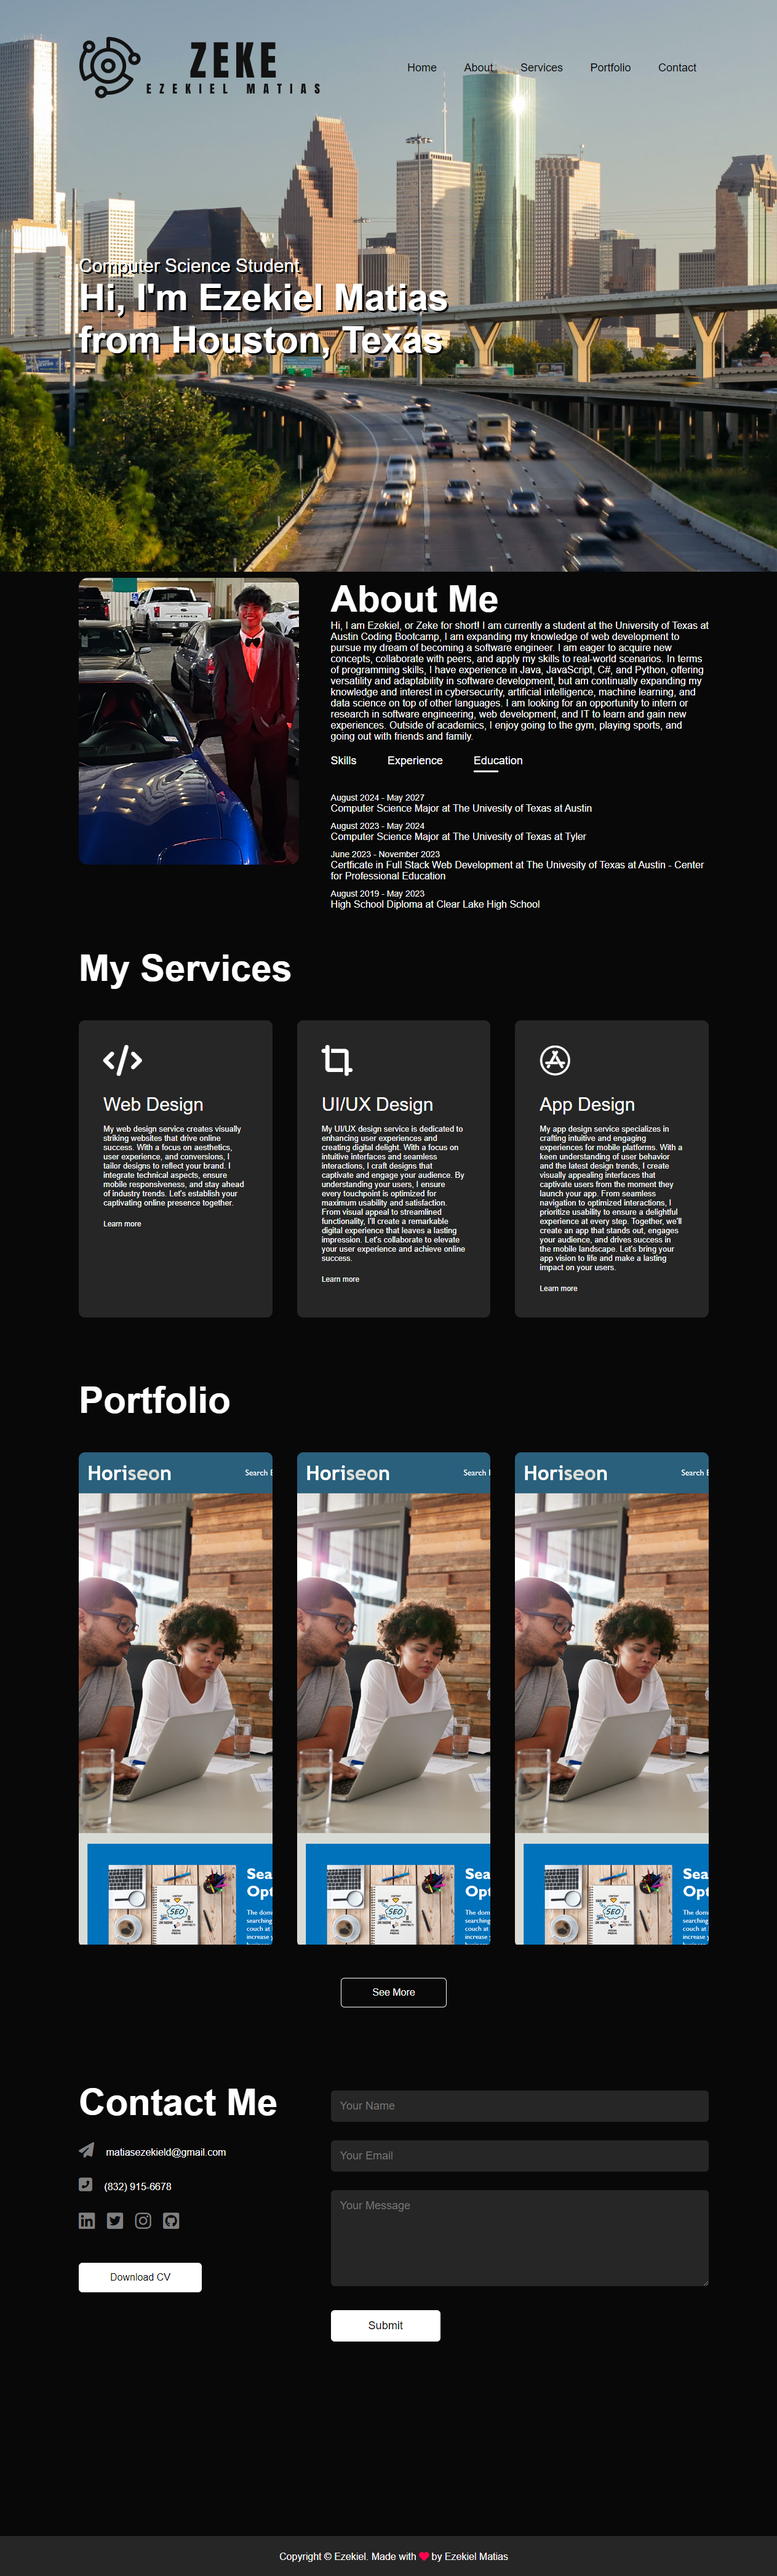
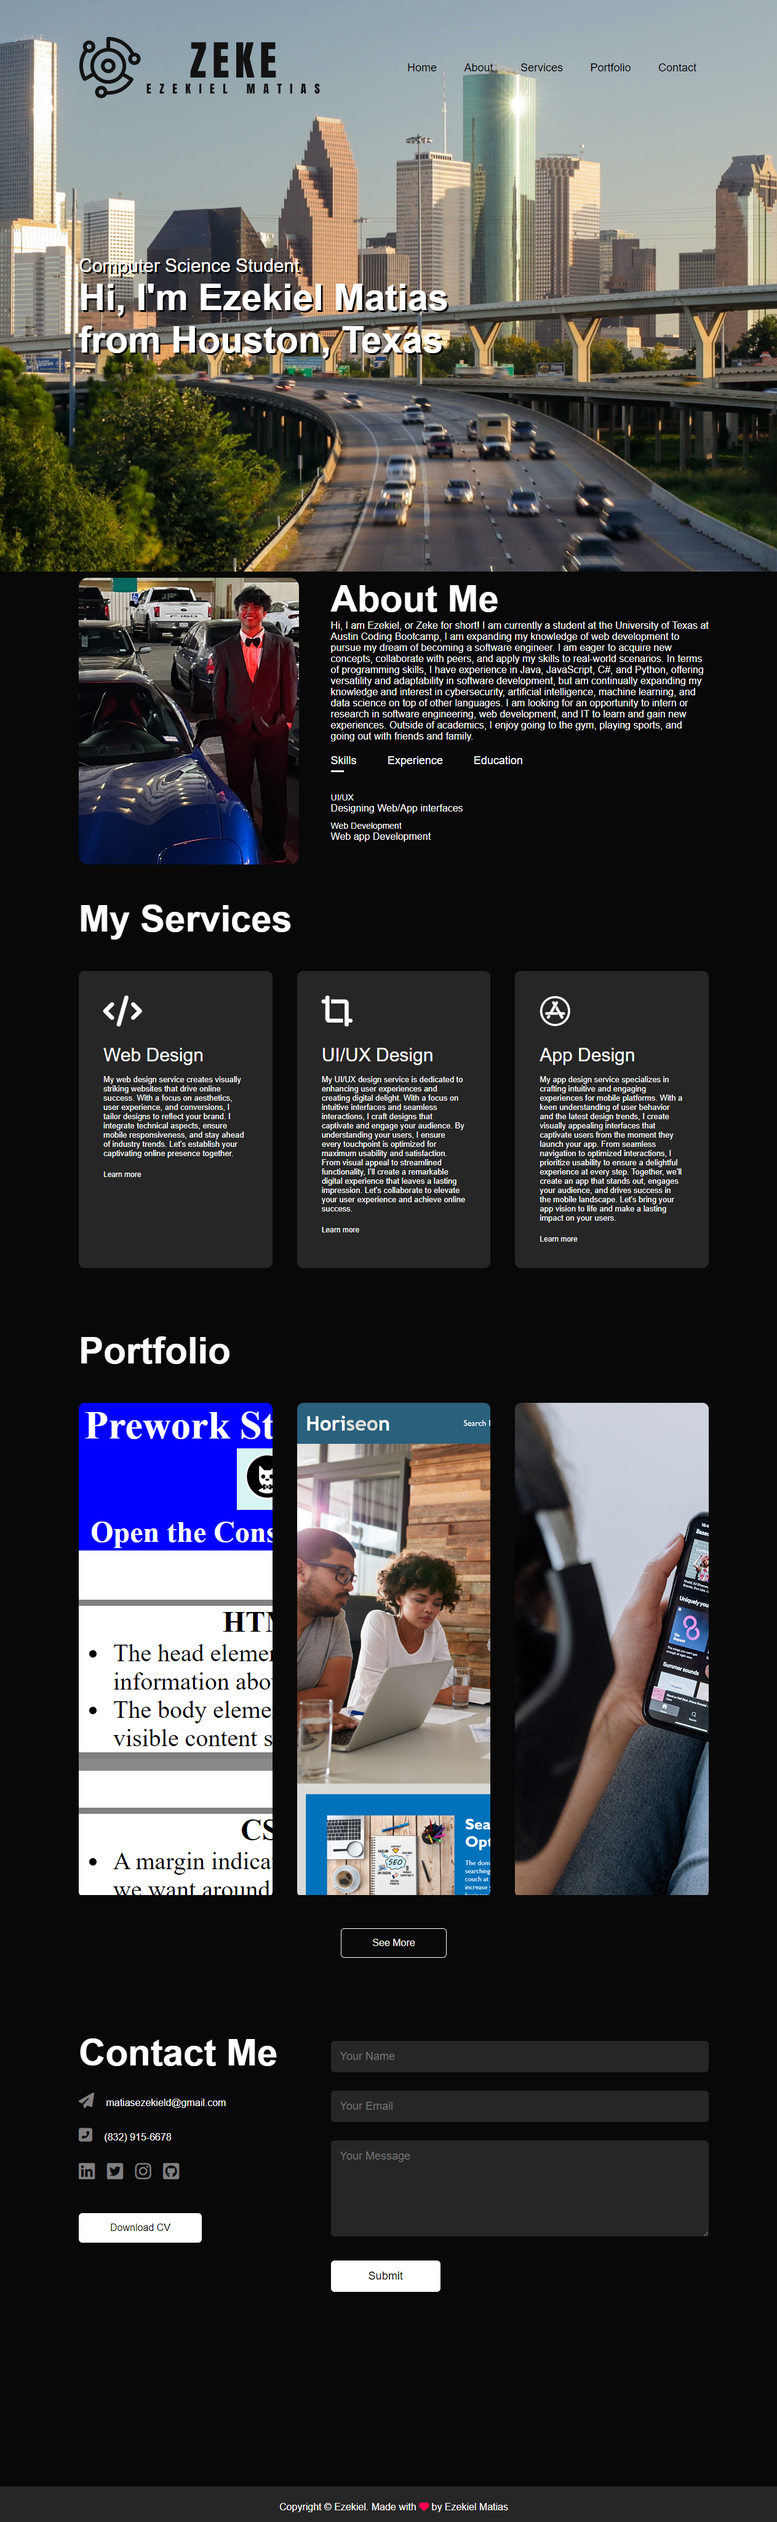
Updated Portfolio section and README

diff --git a/index.html b/index.html
@@ -118,10 +118,10 @@
         <h1 class="sub-title">Portfolio</h1>
         <div class="portfolio-row1">
             <div class="portfolio">
-                <img src="images/horisean.png">
+                <img src="images/prework.png">
                 <div class="layer">
-                    <h3>Hoirsean</h3>
-                    <p>Hoirsean Website</p>
+                    <h3>Prework</h3>
+                    <p>Prework Study Guide</p>
                     <a href="#"><i class="fas fa-external-link-alt"></i></a>
                 </div>
             </div>
@@ -134,10 +134,10 @@
                 </div>
             </div>
             <div class="portfolio">
-                <img src="images/horisean.png">
+                <img src="images/work-2.png">
                 <div class="layer">
-                    <h3>Hoirsean</h3>
-                    <p>Hoirsean Website</p>
+                    <h3>Coming soon!</h3>
+                    <p>Working on new projects!</p>
                     <a href="#"><i class="fas fa-external-link-alt"></i></a>
                 </div>
             </div>

diff --git a/README.md b/README.md
@@ -47,4 +47,6 @@ https://getwallpapers.com/collection/houston-skyline-wallpaper
 
 Logo made with https://www.canva.com/
 
+Image Credit for "Coming soon!" part of the portfolio section: https://www.pexels.com/
+
 Tutorial by https://www.youtube.com/watch?v=0YFrGy_mzjY
